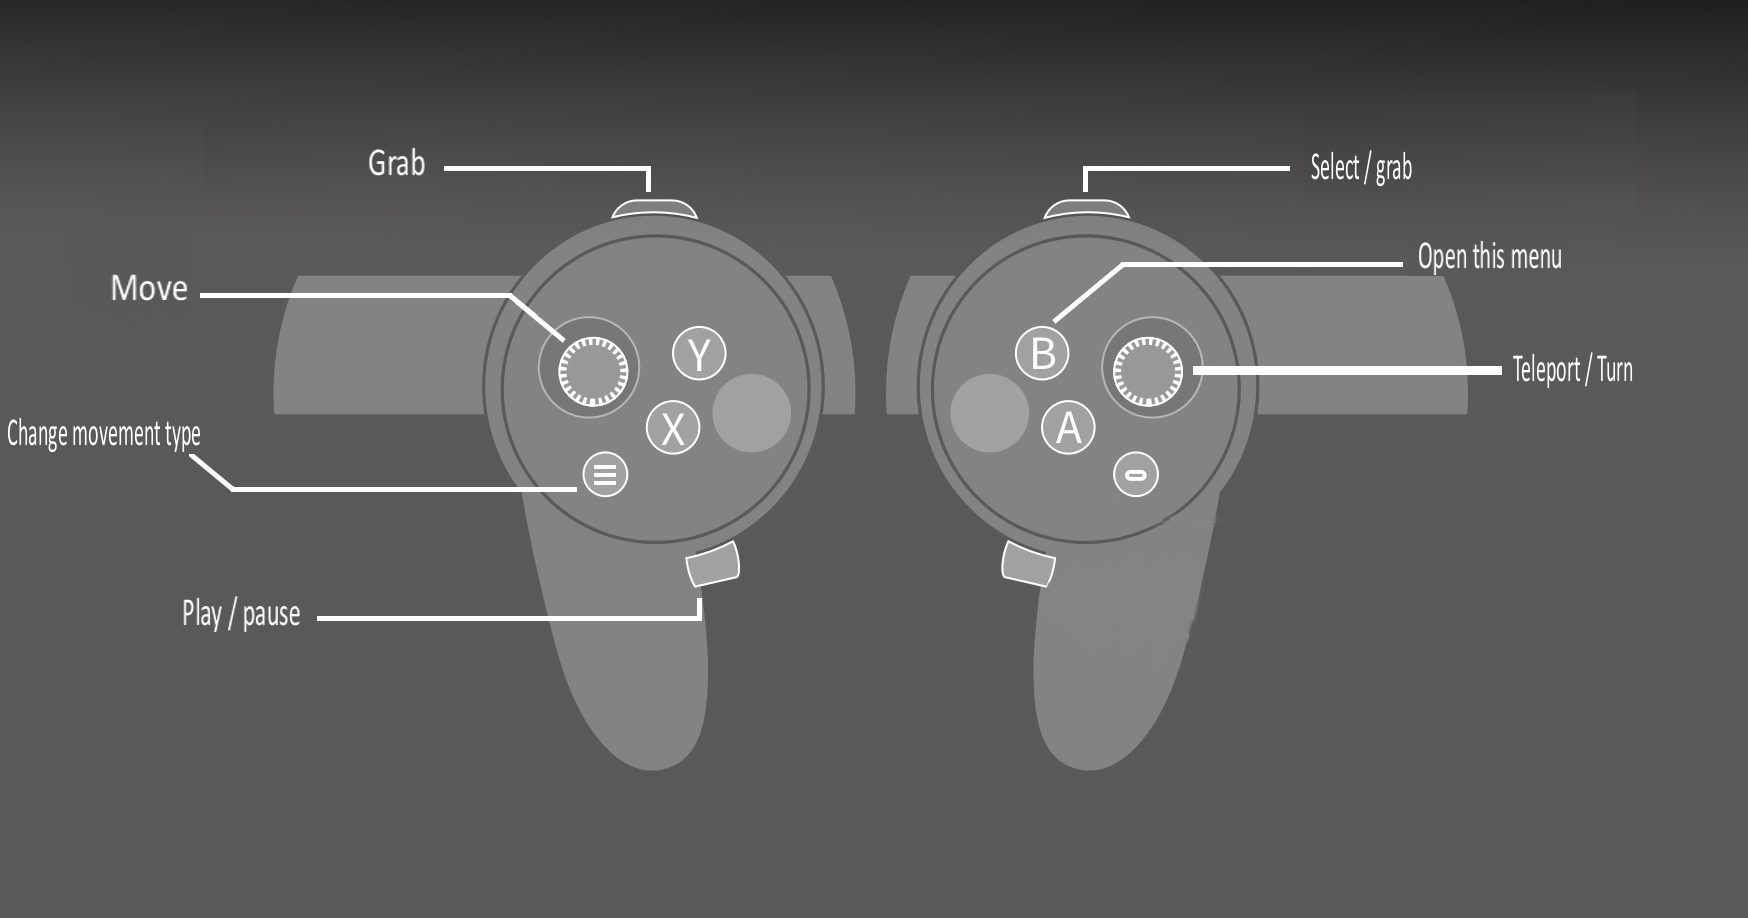
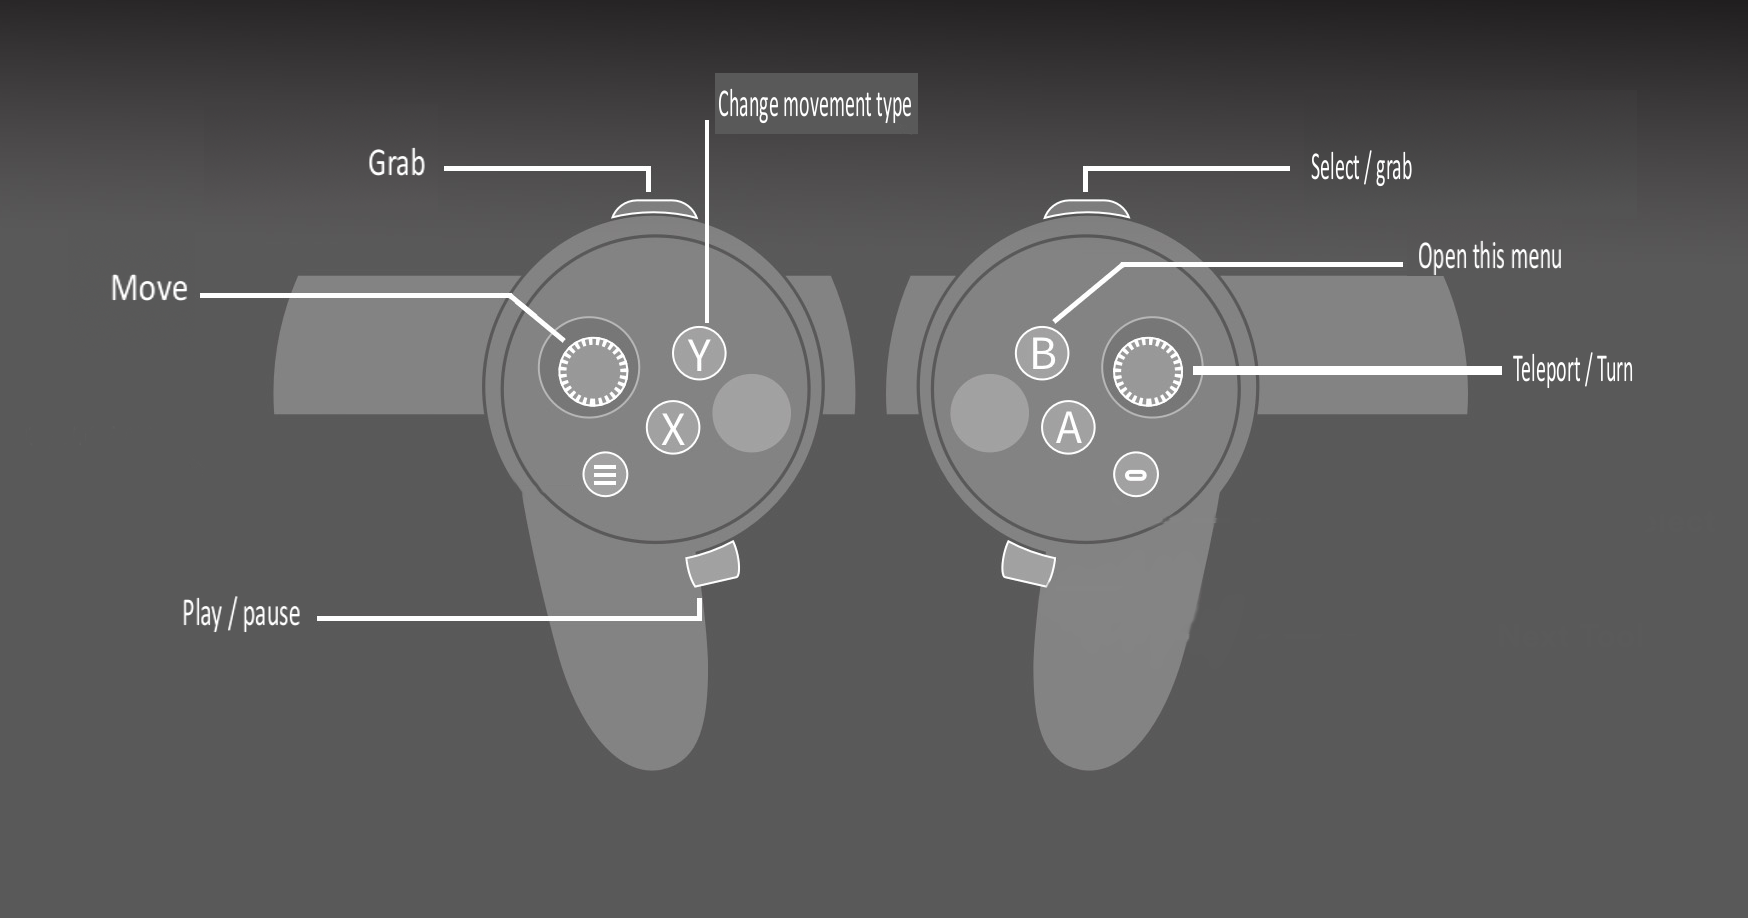
changed which action is used in order to pause a video + small changes to tutorial picture

Changed region(s): [[0.4016, 0.061, 0.5252, 0.1525], [0.1236, 0.5185, 0.3398, 0.549], [0.0, 0.4575, 0.1236, 0.5185]]

diff --git a/Assets/Scripts/Network/NetworkPlayer.cs b/Assets/Scripts/Network/NetworkPlayer.cs
@@ -17,7 +17,7 @@ public class NetworkPlayer : NetworkBehaviour
     [SerializeField]
     public Transform rightHand;
 
-    public SteamVR_Action_Boolean pauseButton = SteamVR_Input.GetBooleanAction("PauseButton");
+    public SteamVR_Action_Boolean pauseButton = SteamVR_Input.GetBooleanAction("X_Button_Press");
     private VideoScreen videoScreen;
     private Player p;
     private bool isVideoPlaying = false;
